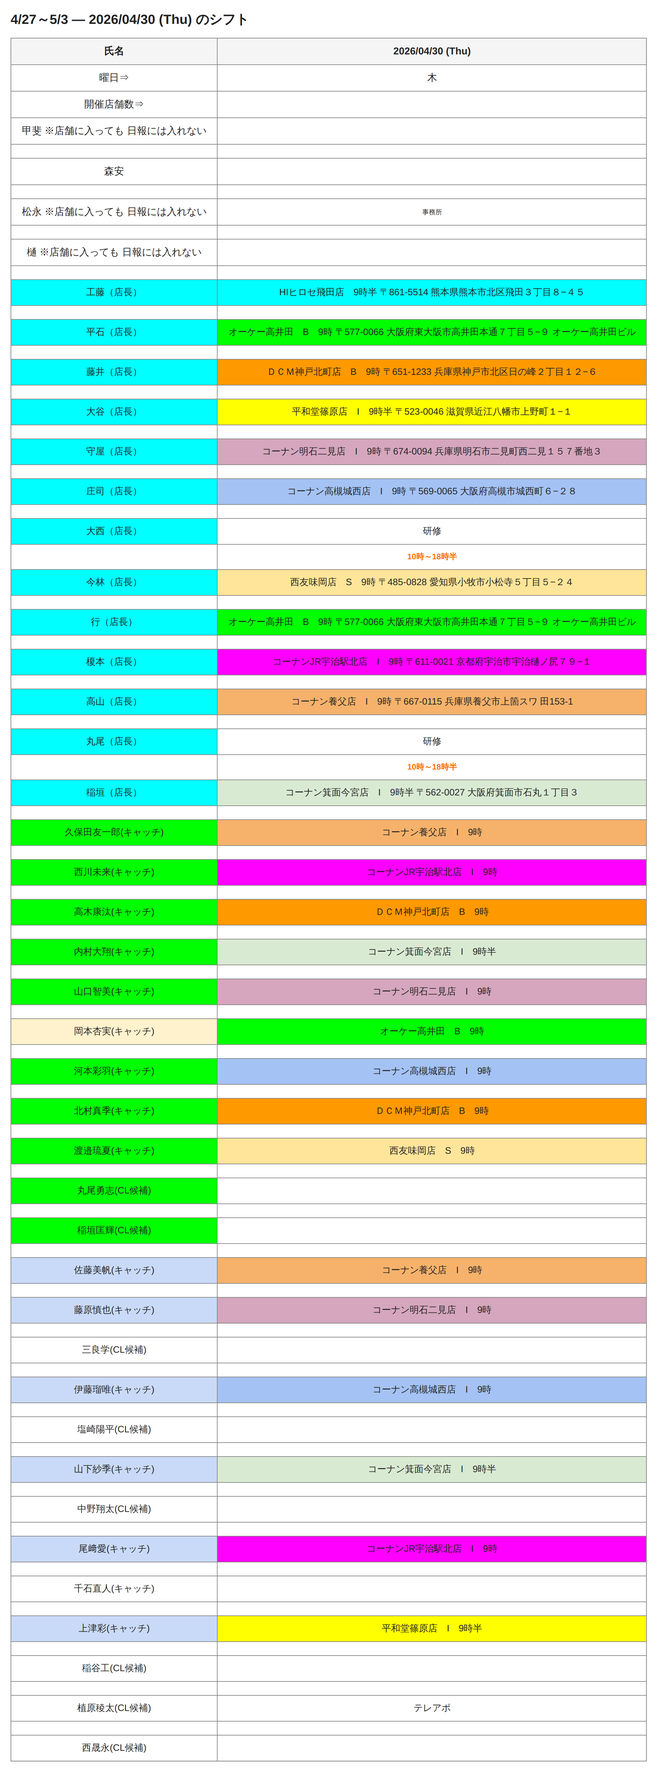
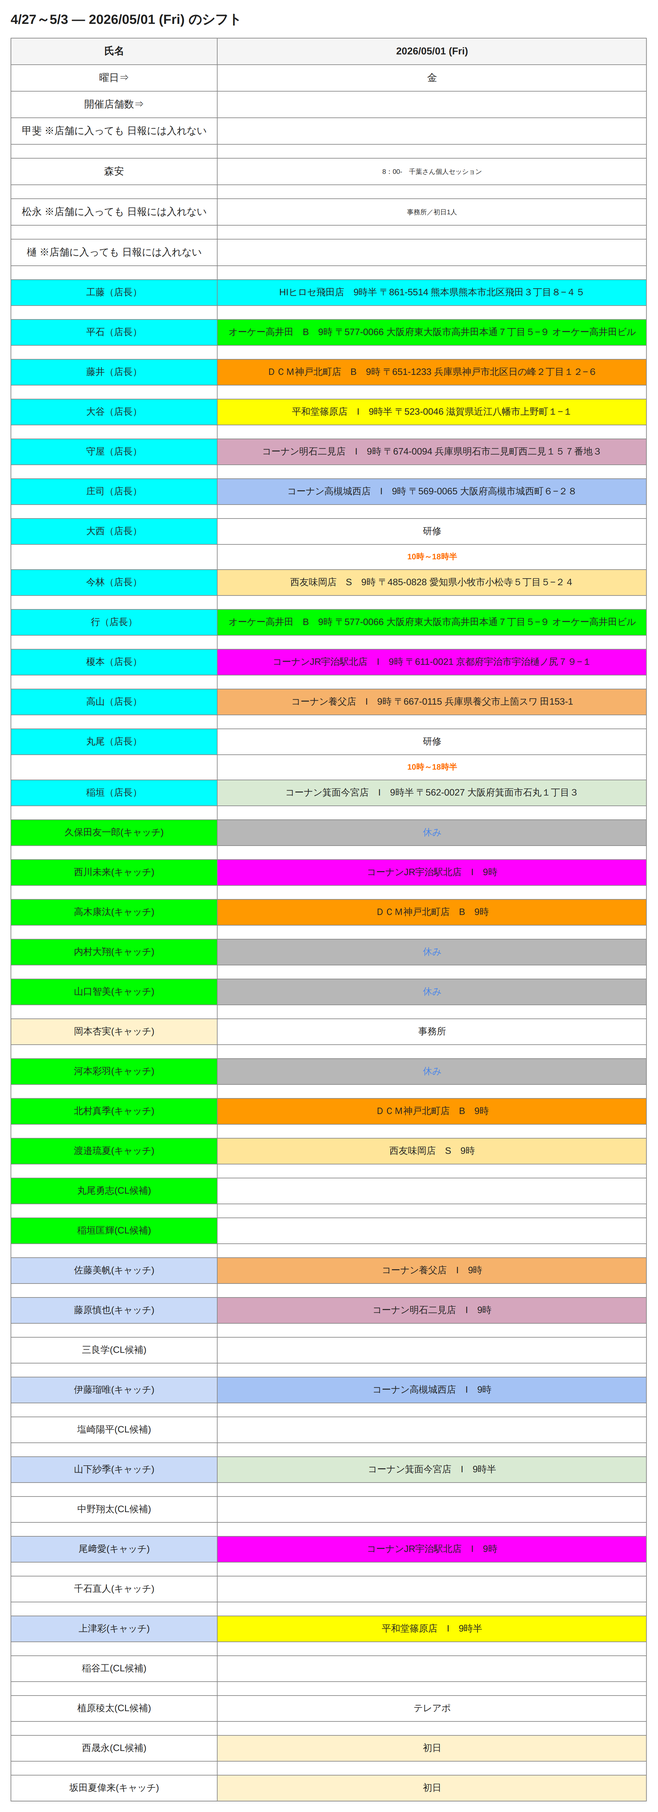
chore: update screenshots [skip ci]

diff --git a/screenshots/latest_kanto.html b/screenshots/latest_kanto.html
@@ -10,147 +10,40 @@ th,td{border:1px solid #888;padding:10px 16px;text-align:center;min-width:90px;}
 th{background:#f5f5f5;font-weight:bold;}
 </style></head><body>
 <div class='container'>
-<h2>4/27～5/3 — 2026/04/30 (Thu) のシフト</h2>
+<h2>2026年5月 — 2026/05/01 (Fri) のシフト</h2>
 <table>
-<tr><th>氏名</th><th>2026/04/30 (Thu)</th></tr>
-<tr><td style='background-color:rgb(255,255,255);font-size:15px'>曜日⇒</td><td style='background-color:rgb(255,255,255);font-size:15px'>木</td></tr>
-<tr><td style='background-color:rgb(255,255,255);font-size:15px'>開催店舗数⇒</td><td style='background-color:rgb(255,255,255);font-size:10px'></td></tr>
-<tr><td style='background-color:rgb(255,255,255);font-size:15px'>甲斐
-※店舗に入っても
-日報には入れない</td><td style='background-color:rgb(255,255,255);font-size:10px'></td></tr>
-<tr><td style='background-color:rgb(255,255,255);font-size:15px'></td><td style='background-color:rgb(255,255,255);font-size:10px'></td></tr>
-<tr><td style='background-color:rgb(255,255,255);font-size:14px'>照屋
-※店舗に入っても
-日報には入れない</td><td style='background-color:rgb(255,255,255);font-size:10px'></td></tr>
-<tr><td style='background-color:rgb(255,255,255);font-size:10px'></td><td style='background-color:rgb(255,255,255);font-size:10px'></td></tr>
-<tr><td style='background-color:rgb(255,255,255);font-size:16px'>鍛治
-※店舗に入っても
-日報には入れない</td><td style='background-color:rgb(255,255,255);font-size:10px'></td></tr>
-<tr><td style='background-color:rgb(255,255,255);font-size:10px'></td><td style='background-color:rgb(255,255,255);font-size:10px'></td></tr>
-<tr><td style='background-color:rgb(255,153,0);font-size:14px'>大塚（店長）</td><td style='background-color:rgb(255,153,0);font-size:14px'>オーケー東伏見　B　9時スタート
-〒202-0021 東京都西東京市東伏見５丁目１−２６</td></tr>
-<tr><td style='background-color:rgb(255,255,255);font-size:14px'></td><td style='background-color:rgb(255,255,255);color:rgb(255,0,0);font-size:14px'>CC石塚</td></tr>
-<tr><td style='background-color:rgb(255,0,255);font-size:14px'>西本（店長）</td><td style='background-color:rgb(255,0,255);font-size:15px'>オーケー松戸大橋店　B　9時スタート
-〒270-2224 千葉県松戸市大橋４２４−１</td></tr>
-<tr><td style='background-color:rgb(255,255,255);font-size:14px'></td><td style='background-color:rgb(255,255,255);color:rgb(255,0,0);font-size:14px'></td></tr>
-<tr><td style='background-color:rgb(255,0,255);font-size:14px'>阿部（店長）</td><td style='background-color:rgb(183,183,183);color:rgb(74,134,232);font-size:14px'>休み</td></tr>
-<tr><td style='background-color:rgb(255,255,255);font-size:14px'></td><td style='background-color:rgb(255,255,255);color:rgb(255,0,0);font-size:14px'></td></tr>
-<tr><td style='background-color:rgb(255,0,255);font-size:14px'>小嶋（店長）</td><td style='background-color:rgb(153,0,255);color:rgb(255,255,255);font-size:14px'>オーケー 大和鶴間店　B　９時スタート
-〒242-0004 神奈川県大和市鶴間２丁目１−１８</td></tr>
-<tr><td style='background-color:rgb(255,255,255);font-size:14px'></td><td style='background-color:rgb(255,255,255);color:rgb(255,0,0);font-size:14px'></td></tr>
-<tr><td style='background-color:rgb(255,0,255);font-size:14px'>楠美（店長） </td><td style='background-color:rgb(0,0,255);color:rgb(255,255,255);font-size:14px'>オーケー 四つ木店　B　9時スタート
-〒124-0011 東京都葛飾区四つ木３丁目１９−１</td></tr>
-<tr><td style='background-color:rgb(255,255,255);font-size:14px'> </td><td style='background-color:rgb(255,255,255);color:rgb(255,0,0);font-size:14px'></td></tr>
-<tr><td style='background-color:rgb(255,0,255);font-size:14px'>高井（店長） </td><td style='background-color:rgb(127,96,0);color:rgb(255,255,255);font-size:14px'>オーケー 三鷹上連雀店　Ｂ　9時スタート
-〒181-0012 東京都三鷹市上連雀８丁目２−３０</td></tr>
-<tr><td style='background-color:rgb(255,255,255);font-size:14px'></td><td style='background-color:rgb(255,255,255);color:rgb(255,0,0);font-size:14px'>CC栗原</td></tr>
-<tr><td style='background-color:rgb(255,0,255);font-size:14px'>岡村秀星（店長） </td><td style='background-color:rgb(182,215,168);font-size:14px'>オータニ御幸ヶ原店　Ｂ　9時半スタート
-〒321-0982 栃木県宇都宮市御幸ケ原町９１−４</td></tr>
-<tr><td style='background-color:rgb(255,255,255);color:rgb(255,0,0);font-weight:bold;font-size:14px'></td><td style='background-color:rgb(255,255,255);color:rgb(255,0,0);font-weight:bold;font-size:14px'></td></tr>
-<tr><td style='background-color:rgb(0,255,255);font-size:14px'>岡村（店長）</td><td style='background-color:rgb(0,255,255);font-size:14px'>オーケー 和光下新倉店 Ｂ　9時スタート
-〒351-0111 埼玉県和光市下新倉５丁目１３−５２&quot;</td></tr>
-<tr><td style='background-color:rgb(255,255,255);font-size:14px'></td><td style='background-color:rgb(255,255,255);color:rgb(255,0,0);font-size:14px'>同行</td></tr>
-<tr><td style='background-color:rgb(0,255,255);font-size:14px'>山田（店長）</td><td style='background-color:rgb(255,229,153);font-size:14px'>イオンタウン田無芝久保　S　９時スタート
-〒188-0014 東京都西東京市芝久保町１丁目１２−５</td></tr>
-<tr><td style='background-color:rgb(255,255,255);font-size:14px'></td><td style='background-color:rgb(255,255,255);color:rgb(255,0,0);font-size:14px'></td></tr>
-<tr><td style='background-color:rgb(0,255,255);font-size:14px'>荒川（店長） </td><td style='background-color:rgb(118,165,175);font-size:14px'>オーケー新座北野店　Ｂ　9時スタート
-〒352-0003 埼玉県新座市北野３丁目４−５</td></tr>
-<tr><td style='background-color:rgb(255,255,255);font-size:14px'></td><td style='background-color:rgb(255,255,255);color:rgb(255,0,0);font-size:14px'></td></tr>
-<tr><td style='background-color:rgb(0,255,255);font-size:14px'>吉田（店長） </td><td style='background-color:rgb(56,118,29);color:rgb(255,255,255);font-size:14px'>エスポット湯河原店　B　９時半スタート
-〒259-0312 神奈川県足柄下郡湯河原町吉浜1576ｰ47</td></tr>
-<tr><td style='background-color:rgb(255,255,255);font-size:14px'></td><td style='background-color:rgb(255,255,255);color:rgb(255,0,0);font-size:14px'></td></tr>
-<tr><td style='background-color:rgb(0,255,255);font-size:14px'>古川（店長）</td><td style='background-color:rgb(0,255,255);font-size:14px'>オーケー 和光下新倉店 Ｂ　9時スタート
-〒351-0111 埼玉県和光市下新倉５丁目１３−５２</td></tr>
-<tr><td style='background-color:rgb(255,255,255);font-size:14px'></td><td style='background-color:rgb(255,255,255);font-weight:bold;font-size:14px'></td></tr>
-<tr><td style='background-color:rgb(180,167,214);font-size:14px'>高塚（店長）</td><td style='background-color:rgb(180,167,214);font-size:14px'>ウオエイ 金巻店　S　１０時スタート
-〒950-1112 新潟県新潟市西区金巻１１５５</td></tr>
-<tr><td style='background-color:rgb(255,255,255);font-size:14px'></td><td style='background-color:rgb(255,255,255);color:rgb(255,0,0);font-size:14px'></td></tr>
-<tr><td style='background-color:rgb(164,194,244);font-size:14px'>横瀬康汰(CL候補)フェーズ4</td><td style='background-color:rgb(255,242,204);color:rgb(255,0,0);font-weight:bold;font-size:14px'>水道橋研修</td></tr>
-<tr><td style='background-color:rgb(255,255,255);font-size:14px'></td><td style='background-color:rgb(255,255,255);font-weight:bold;font-size:14px'>11時リテラシー研修</td></tr>
-<tr><td style='background-color:rgb(164,194,244);font-size:14px'>工藤雅也(CL候補)フェーズ4</td><td style='background-color:rgb(255,242,204);color:rgb(255,0,0);font-weight:bold;font-size:14px'>水道橋研修</td></tr>
-<tr><td style='background-color:rgb(255,255,255);font-size:14px'></td><td style='background-color:rgb(255,255,255);font-weight:bold;font-size:14px'>11時リテラシー研修</td></tr>
-<tr><td style='background-color:rgb(0,255,0);font-size:14px'>関崎太央(キャッチ)リーダー</td><td style='background-color:rgb(255,255,0);font-size:14px'>オータニ高根沢店　Ｂ　9時半スタート
-〒329-1232 栃木県塩谷郡高根沢町光陽台６丁目５−３</td></tr>
-<tr><td style='background-color:rgb(255,255,255);font-size:14px'></td><td style='background-color:rgb(255,255,255);color:rgb(255,0,0);font-weight:bold;font-size:14px'></td></tr>
-<tr><td style='background-color:rgb(0,255,0);font-size:14px'>池邉杏梨(キャッチ)リーダー</td><td style='background-color:rgb(183,183,183);color:rgb(74,134,232);font-size:14px'>休み</td></tr>
-<tr><td style='background-color:rgb(255,255,255);font-size:14px'></td><td style='background-color:rgb(255,255,255);color:rgb(255,0,0);font-weight:bold;font-size:14px'></td></tr>
-<tr><td style='background-color:rgb(0,255,0);font-size:14px'>中村響子(キャッチ)リーダー</td><td style='background-color:rgb(255,0,255);font-size:15px'>オーケー松戸大橋店9時スタート(西本CL)
-〒270-2224 千葉県松戸市大橋４２４−１</td></tr>
-<tr><td style='background-color:rgb(255,255,255);font-size:14px'></td><td style='background-color:rgb(255,255,255);color:rgb(255,0,0);font-weight:bold;font-size:14px'></td></tr>
-<tr><td style='background-color:rgb(0,255,0);font-size:14px'>佐川明佳(キャッチ)リーダー</td><td style='background-color:rgb(255,255,255);font-size:14px'>HIヒロセ飛田店　9時半スタート</td></tr>
-<tr><td style='background-color:rgb(255,255,255);font-size:14px'></td><td style='background-color:rgb(255,255,255);color:rgb(255,0,0);font-weight:bold;font-size:14px'>工藤店舗ＣＣ今井</td></tr>
-<tr><td style='background-color:rgb(0,255,0);font-size:14px'>戸﨑龍(キャッチ)リーダー</td><td style='background-color:rgb(183,183,183);color:rgb(74,134,232);font-size:14px'>休み</td></tr>
-<tr><td style='background-color:rgb(255,255,255);font-size:14px'></td><td style='background-color:rgb(255,255,255);color:rgb(255,0,0);font-weight:bold;font-size:14px'>振替休日4/29に出勤</td></tr>
-<tr><td style='background-color:rgb(183,225,205);font-size:14px'>加藤美雪(キャッチ)フェーズ3</td><td style='background-color:rgb(255,153,0);font-size:14px'>オーケー東伏見9時スタート(大塚ＣＬ)
-〒202-0021 東京都西東京市東伏見５丁目１−２６</td></tr>
-<tr><td style='background-color:rgb(255,255,255);font-size:14px'></td><td style='background-color:rgb(255,255,255);color:rgb(255,0,0);font-weight:bold;font-size:14px'></td></tr>
-<tr><td style='background-color:rgb(183,225,205);font-size:14px'>前川孝夫(キャッチ)フェーズ3</td><td style='background-color:rgb(255,255,0);font-size:14px'>オータニ高根沢店9時半スタート(関崎ＣＬ)
-〒329-1232 栃木県塩谷郡高根沢町光陽台６丁目５−３</td></tr>
-<tr><td style='background-color:rgb(255,255,255);font-size:14px'></td><td style='background-color:rgb(255,255,255);color:rgb(255,0,0);font-weight:bold;font-size:14px'>11時リテラシー研修</td></tr>
-<tr><td style='background-color:rgb(183,225,205);font-size:14px'>佐藤優斗(キャッチ)フェーズ3</td><td style='background-color:rgb(180,167,214);font-size:14px'>ウオエイ 金巻店１０時スタート(高塚ＣＬ)
-〒950-1112 新潟県新潟市西区金巻１１５５</td></tr>
-<tr><td style='background-color:rgb(255,255,255);font-size:14px'></td><td style='background-color:rgb(255,255,255);color:rgb(255,0,0);font-size:14px'></td></tr>
-<tr><td style='background-color:rgb(183,225,205);font-size:14px'>薄井和明(キャッチ)フェーズ3</td><td style='background-color:rgb(255,255,0);font-size:14px'>オータニ高根沢店9時半スタート(関崎ＣＬ)
-〒329-1232 栃木県塩谷郡高根沢町光陽台６丁目５−３</td></tr>
-<tr><td style='background-color:rgb(255,255,255);font-size:14px'></td><td style='background-color:rgb(255,255,255);color:rgb(255,0,0);font-size:14px'></td></tr>
-<tr><td style='background-color:rgb(183,225,205);font-size:14px'>大木亜希乃(キャッチ)フェーズ3</td><td style='background-color:rgb(0,255,255);font-size:14px'>オーケー 和光下新倉店 9時スタート(古川ＣＬ)
-〒351-0111 埼玉県和光市下新倉５丁目１３−５２</td></tr>
-<tr><td style='background-color:rgb(255,255,255);font-size:14px'></td><td style='background-color:rgb(255,255,255);font-weight:bold;font-size:14px'>11時リテラシー研修</td></tr>
-<tr><td style='background-color:rgb(183,225,205);font-size:14px'>川上寛太(キャッチ)フェーズ3</td><td style='background-color:rgb(182,215,168);font-size:14px'>オータニ御幸ヶ原店9時半スタート(岡村秀星ＣＬ)
-〒321-0982 栃木県宇都宮市御幸ケ原町９１−４</td></tr>
-<tr><td style='background-color:rgb(255,255,255);font-size:14px'></td><td style='background-color:rgb(255,255,255);color:rgb(255,0,0);font-weight:bold;font-size:14px'></td></tr>
-<tr><td style='background-color:rgb(183,225,205);font-size:14px'>高橋疾風(キャッチ)フェーズ3</td><td style='background-color:rgb(153,0,255);color:rgb(255,255,255);font-size:14px'>オーケー 大和鶴間店９時スタート(小嶋ＣＬ)
-〒242-0004 神奈川県大和市鶴間２丁目１−１８</td></tr>
-<tr><td style='background-color:rgb(255,255,255);font-size:14px'></td><td style='background-color:rgb(255,255,255);font-weight:bold;font-size:14px'>11時リテラシー研修</td></tr>
-<tr><td style='background-color:rgb(183,225,205);font-size:14px'>鈴木彰悟(キャッチ)フェーズ3</td><td style='background-color:rgb(118,165,175);font-size:14px'>オーケー新座北野店9時スタート(荒川ＣＬ)
-〒352-0003 埼玉県新座市北野３丁目４−５</td></tr>
-<tr><td style='background-color:rgb(255,255,255);font-size:14px'></td><td style='background-color:rgb(255,255,255);font-weight:bold;font-size:14px'>11時リテラシー研修</td></tr>
-<tr><td style='background-color:rgb(183,225,205);font-size:14px'>宮下裕大(キャッチ)フェーズ3</td><td style='background-color:rgb(183,183,183);color:rgb(74,134,232);font-size:14px'>休み</td></tr>
-<tr><td style='background-color:rgb(255,255,255);font-size:14px'></td><td style='background-color:rgb(255,255,255);color:rgb(255,0,0);font-weight:bold;font-size:14px'></td></tr>
-<tr><td style='background-color:rgb(183,225,205);font-size:14px'>本間駿介(キャッチ)フェーズ3</td><td style='background-color:rgb(183,183,183);color:rgb(74,134,232);font-size:14px'>休み</td></tr>
-<tr><td style='background-color:rgb(255,255,255);font-size:14px'></td><td style='background-color:rgb(255,255,255);color:rgb(255,0,0);font-weight:bold;font-size:14px'>振替休日(4/29分)</td></tr>
-<tr><td style='background-color:rgb(183,225,205);font-size:14px'>矢田部萌(キャッチ)フェーズ3</td><td style='background-color:rgb(180,167,214);font-size:14px'>ウオエイ 金巻店１０時スタート(高塚ＣＬ)
-〒950-1112 新潟県新潟市西区金巻１１５５</td></tr>
-<tr><td style='background-color:rgb(255,255,255);font-size:14px'></td><td style='background-color:rgb(255,255,255);color:rgb(255,0,0);font-weight:bold;font-size:14px'></td></tr>
-<tr><td style='background-color:rgb(183,225,205);font-size:14px'>伊藤弘晃(キャッチ)フェーズ3</td><td style='background-color:rgb(183,183,183);color:rgb(74,134,232);font-size:14px'>休み</td></tr>
-<tr><td style='background-color:rgb(255,255,255);font-size:14px'></td><td style='background-color:rgb(255,255,255);color:rgb(255,0,0);font-weight:bold;font-size:14px'>有給</td></tr>
-<tr><td style='background-color:rgb(183,225,205);font-size:14px'>室岡峻平(キャッチ)フェーズ3</td><td style='background-color:rgb(255,229,153);font-size:14px'>イオンタウン田無芝久保９時スタート(山田ＣＬ)
-〒188-0014 東京都西東京市芝久保町１丁目１２−５</td></tr>
-<tr><td style='background-color:rgb(255,255,255);font-size:14px'></td><td style='background-color:rgb(255,255,255);font-weight:bold;font-size:14px'></td></tr>
-<tr><td style='background-color:rgb(183,225,205);font-size:14px'>藤井祥平(キャッチ)フェーズ3</td><td style='background-color:rgb(56,118,29);color:rgb(255,255,255);font-size:14px'>エスポット湯河原店９時半スタート(吉田ＣＬ)
-〒259-0312 神奈川県足柄下郡湯河原町吉浜1576ｰ47</td></tr>
-<tr><td style='background-color:rgb(255,255,255);font-size:14px'></td><td style='background-color:rgb(255,255,255);color:rgb(255,0,0);font-size:14px'></td></tr>
-<tr><td style='background-color:rgb(183,225,205);font-size:14px'>中川侑馬(キャッチ)フェーズ3</td><td style='background-color:rgb(118,165,175);font-size:14px'>オーケー新座北野店9時スタート(荒川ＣＬ)
-〒352-0003 埼玉県新座市北野３丁目４−５</td></tr>
-<tr><td style='background-color:rgb(255,255,255);font-size:14px'></td><td style='background-color:rgb(255,255,255);color:rgb(255,0,0);font-weight:bold;font-size:14px'></td></tr>
-<tr><td style='background-color:rgb(183,225,205);font-size:14px'>溝井唯香(キャッチ)フェーズ3</td><td style='background-color:rgb(0,0,255);color:rgb(255,255,255);font-size:14px'>オーケー 四つ木店9時スタート(楠美ＣＬ)
-〒124-0011 東京都葛飾区四つ木３丁目１９−１</td></tr>
-<tr><td style='background-color:rgb(255,255,255);font-size:14px'></td><td style='background-color:rgb(255,255,255);font-weight:bold;font-size:14px'>リテラシー研修</td></tr>
-<tr><td style='background-color:rgb(183,225,205);font-size:14px'>門脇愛(キャッチ)フェーズ3</td><td style='background-color:rgb(183,183,183);color:rgb(74,134,232);font-size:14px'>休み</td></tr>
-<tr><td style='background-color:rgb(255,255,255);font-size:14px'></td><td style='background-color:rgb(255,255,255);font-weight:bold;font-size:14px'>未定</td></tr>
-<tr><td style='background-color:rgb(255,242,204);font-size:14px'>髙田啓祐(キャッチ)フェーズ2</td><td style='background-color:rgb(153,0,255);color:rgb(255,255,255);font-size:14px'>オーケー 大和鶴間店９時スタート(小嶋ＣＬ)
-〒242-0004 神奈川県大和市鶴間２丁目１−１８</td></tr>
-<tr><td style='background-color:rgb(255,255,255);font-size:14px'></td><td style='background-color:rgb(255,255,255);font-weight:bold;font-size:14px'></td></tr>
-<tr><td style='background-color:rgb(255,242,204);font-size:14px'>山本拓真(キャッチ)フェーズ2</td><td style='background-color:rgb(182,215,168);font-size:14px'>オータニ御幸ヶ原店9時半スタート(岡村秀星ＣＬ)
-〒321-0982 栃木県宇都宮市御幸ケ原町９１−４</td></tr>
-<tr><td style='background-color:rgb(255,255,255);font-size:14px'></td><td style='background-color:rgb(255,255,255);font-weight:bold;font-size:14px'></td></tr>
-<tr><td style='background-color:rgb(255,242,204);font-size:14px'>小西輝(キャッチ)フェーズ2</td><td style='background-color:rgb(0,0,255);color:rgb(255,255,255);font-size:14px'>オーケー 四つ木店9時スタート(楠美ＣＬ)
-〒124-0011 東京都葛飾区四つ木３丁目１９−１</td></tr>
-<tr><td style='background-color:rgb(255,255,255);font-size:14px'></td><td style='background-color:rgb(255,255,255);font-weight:bold;font-size:14px'></td></tr>
-<tr><td style='background-color:rgb(234,153,153);font-size:14px'>田邊怜司(キャッチ)フェーズ1</td><td style='background-color:rgb(255,0,255);font-size:15px'>オーケー松戸大橋店9時スタート(西本CL)
-〒270-2224 千葉県松戸市大橋４２４−１</td></tr>
-<tr><td style='background-color:rgb(255,255,255);font-size:14px'></td><td style='background-color:rgb(255,255,255);color:rgb(255,0,0);font-weight:bold;font-size:14px'></td></tr>
-<tr><td style='background-color:rgb(234,153,153);font-size:14px'>千田華菜子(キャッチ)フェーズ1</td><td style='background-color:rgb(127,96,0);color:rgb(255,255,255);font-size:14px'>オーケー 三鷹上連雀店9時スタート(高井ＣＬ)
-〒181-0012 東京都三鷹市上連雀８丁目２−３０</td></tr>
-<tr><td style='background-color:rgb(255,255,255);font-size:14px'></td><td style='background-color:rgb(255,255,255);font-weight:bold;font-size:14px'></td></tr>
-<tr><td style='background-color:rgb(234,153,153);font-size:14px'>小幡直樹(キャッチ)フェーズ1</td><td style='background-color:rgb(255,229,153);font-size:14px'>イオンタウン田無芝久保９時スタート(山田ＣＬ)
-〒188-0014 東京都西東京市芝久保町１丁目１２−５</td></tr>
-<tr><td style='background-color:rgb(255,255,255);font-size:14px'></td><td style='background-color:rgb(255,255,255);font-weight:bold;font-size:14px'></td></tr>
-<tr><td style='background-color:rgb(234,153,153);font-size:14px'>太田天(CL候補)フェーズ1</td><td style='background-color:rgb(56,118,29);color:rgb(255,255,255);font-size:14px'>エスポット湯河原店９時半スタート(吉田ＣＬ)
-〒259-0312 神奈川県足柄下郡湯河原町吉浜1576ｰ47</td></tr>
-<tr><td style='background-color:rgb(255,255,255);font-weight:bold;font-size:14px'></td><td style='background-color:rgb(255,255,255);font-weight:bold;font-size:14px'>11時リテラシー研修</td></tr>
-<tr><td style='background-color:rgb(234,153,153);font-size:14px'>米須清晃(CL候補)フェーズ1</td><td style='background-color:rgb(255,229,153);font-size:14px'>イオンタウン田無芝久保９時スタート(山田ＣＬ)
-〒188-0014 東京都西東京市芝久保町１丁目１２−５</td></tr>
-<tr><td style='background-color:rgb(255,255,255);font-weight:bold;font-size:14px'></td><td style='background-color:rgb(255,255,255);font-weight:bold;font-size:14px'>リテラシー研修</td></tr>
-<tr><td style='background-color:rgb(255,255,255);font-weight:bold;font-size:14px'></td><td style='background-color:rgb(255,255,255);font-weight:bold;font-size:14px'></td></tr>
+<tr><th>氏名</th><th>2026/05/01 (Fri)</th></tr>
+<tr><td style='background-color:rgb(255,255,255);font-size:10px'>関崎太央</td><td style='background-color:rgb(255,255,255);font-size:10px'></td></tr>
+<tr><td style='background-color:rgb(255,255,255);font-size:10px'>オータニ高根沢店　Ｂ　9時半スタート
+〒329-1232 栃木県塩谷郡高根沢町光陽台６丁目５−３</td><td style='background-color:rgb(255,255,255);font-size:10px'>2026/05/01</td></tr>
+<tr><td style='background-color:rgb(255,255,255);font-size:10px'>.休み</td><td style='background-color:rgb(255,255,255);font-size:10px'>2026/05/02</td></tr>
+<tr><td style='background-color:rgb(255,255,255);font-size:10px'>.休み</td><td style='background-color:rgb(255,255,255);font-size:10px'>2026/05/03</td></tr>
+<tr><td style='background-color:rgb(255,255,255);font-size:10px'>Aコープハピネス店</td><td style='background-color:rgb(255,255,255);font-size:10px'>2026/05/04</td></tr>
+<tr><td style='background-color:rgb(255,255,255);font-size:10px'>出る</td><td style='background-color:rgb(255,255,255);font-size:10px'>2026/05/05</td></tr>
+<tr><td style='background-color:rgb(255,255,255);font-size:10px'>出る</td><td style='background-color:rgb(255,255,255);font-size:10px'>2026/05/06</td></tr>
+<tr><td style='background-color:rgb(255,255,255);font-size:10px'>出る</td><td style='background-color:rgb(255,255,255);font-size:10px'>2026/05/07</td></tr>
+<tr><td style='background-color:rgb(255,255,255);font-size:10px'>出る</td><td style='background-color:rgb(255,255,255);font-size:10px'>2026/05/08</td></tr>
+<tr><td style='background-color:rgb(255,255,255);font-size:10px'>休み</td><td style='background-color:rgb(255,255,255);font-size:10px'>2026/05/09</td></tr>
+<tr><td style='background-color:rgb(255,255,255);font-size:10px'>休み</td><td style='background-color:rgb(255,255,255);font-size:10px'>2026/05/10</td></tr>
+<tr><td style='background-color:rgb(255,255,255);font-size:10px'></td><td style='background-color:rgb(255,255,255);font-size:10px'>2026/05/11</td></tr>
+<tr><td style='background-color:rgb(255,255,255);font-size:10px'></td><td style='background-color:rgb(255,255,255);font-size:10px'>2026/05/12</td></tr>
+<tr><td style='background-color:rgb(255,255,255);font-size:10px'></td><td style='background-color:rgb(255,255,255);font-size:10px'>2026/05/13</td></tr>
+<tr><td style='background-color:rgb(255,255,255);font-size:10px'></td><td style='background-color:rgb(255,255,255);font-size:10px'>2026/05/14</td></tr>
+<tr><td style='background-color:rgb(255,255,255);font-size:10px'></td><td style='background-color:rgb(255,255,255);font-size:10px'>2026/05/15</td></tr>
+<tr><td style='background-color:rgb(255,255,255);font-size:10px'></td><td style='background-color:rgb(255,255,255);font-size:10px'>2026/05/16</td></tr>
+<tr><td style='background-color:rgb(255,255,255);font-size:10px'>休み</td><td style='background-color:rgb(255,255,255);font-size:10px'>2026/05/17</td></tr>
+<tr><td style='background-color:rgb(255,255,255);font-size:10px'></td><td style='background-color:rgb(255,255,255);font-size:10px'>2026/05/18</td></tr>
+<tr><td style='background-color:rgb(255,255,255);font-size:10px'></td><td style='background-color:rgb(255,255,255);font-size:10px'>2026/05/19</td></tr>
+<tr><td style='background-color:rgb(255,255,255);font-size:10px'></td><td style='background-color:rgb(255,255,255);font-size:10px'>2026/05/20</td></tr>
+<tr><td style='background-color:rgb(255,255,255);font-size:10px'></td><td style='background-color:rgb(255,255,255);font-size:10px'>2026/05/21</td></tr>
+<tr><td style='background-color:rgb(255,255,255);font-size:10px'></td><td style='background-color:rgb(255,255,255);font-size:10px'>2026/05/22</td></tr>
+<tr><td style='background-color:rgb(255,255,255);font-size:10px'></td><td style='background-color:rgb(255,255,255);font-size:10px'>2026/05/23</td></tr>
+<tr><td style='background-color:rgb(255,255,255);font-size:10px'></td><td style='background-color:rgb(255,255,255);font-size:10px'>2026/05/24</td></tr>
+<tr><td style='background-color:rgb(255,255,255);font-size:10px'></td><td style='background-color:rgb(255,255,255);font-size:10px'>2026/05/25</td></tr>
+<tr><td style='background-color:rgb(255,255,255);font-size:10px'></td><td style='background-color:rgb(255,255,255);font-size:10px'>2026/05/26</td></tr>
+<tr><td style='background-color:rgb(255,255,255);font-size:10px'></td><td style='background-color:rgb(255,255,255);font-size:10px'>2026/05/27</td></tr>
+<tr><td style='background-color:rgb(255,255,255);font-size:10px'></td><td style='background-color:rgb(255,255,255);font-size:10px'>2026/05/28</td></tr>
+<tr><td style='background-color:rgb(255,255,255);font-size:10px'></td><td style='background-color:rgb(255,255,255);font-size:10px'>2026/05/29</td></tr>
+<tr><td style='background-color:rgb(255,255,255);font-size:10px'></td><td style='background-color:rgb(255,255,255);font-size:10px'>2026/05/30</td></tr>
+<tr><td style='background-color:rgb(255,255,255);font-size:10px'></td><td style='background-color:rgb(255,255,255);font-size:10px'>2026/05/31</td></tr>
 </table></div></body></html>

diff --git a/screenshots/latest_kansai.html b/screenshots/latest_kansai.html
@@ -10,10 +10,10 @@ th,td{border:1px solid #888;padding:10px 16px;text-align:center;min-width:90px;}
 th{background:#f5f5f5;font-weight:bold;}
 </style></head><body>
 <div class='container'>
-<h2>4/27～5/3 — 2026/04/30 (Thu) のシフト</h2>
+<h2>4/27～5/3 — 2026/05/01 (Fri) のシフト</h2>
 <table>
-<tr><th>氏名</th><th>2026/04/30 (Thu)</th></tr>
-<tr><td style='background-color:rgb(255,255,255);font-size:15px'>曜日⇒</td><td style='background-color:rgb(255,255,255);font-size:15px'>木</td></tr>
+<tr><th>氏名</th><th>2026/05/01 (Fri)</th></tr>
+<tr><td style='background-color:rgb(255,255,255);font-size:15px'>曜日⇒</td><td style='background-color:rgb(255,255,255);font-size:15px'>金</td></tr>
 <tr><td style='background-color:rgb(255,255,255);font-size:15px'>開催店舗数⇒</td><td style='background-color:rgb(255,255,255);font-size:10px'></td></tr>
 <tr><td style='background-color:rgb(255,255,255);font-size:15px'>甲斐
 ※店舗に入っても
@@ -21,11 +21,11 @@ th{background:#f5f5f5;font-weight:bold;}
 <tr><td style='background-color:rgb(255,255,255);font-size:10px'></td><td style='background-color:rgb(255,255,255);font-size:10px'></td></tr>
 <tr><td style='background-color:rgb(255,255,255);font-size:15px'>
 森安
-</td><td style='background-color:rgb(255,255,255);font-size:10px'></td></tr>
+</td><td style='background-color:rgb(255,255,255);font-size:10px'>8：00-　千葉さん個人セッション</td></tr>
 <tr><td style='background-color:rgb(255,255,255);font-size:10px'></td><td style='background-color:rgb(255,255,255);font-size:10px'></td></tr>
 <tr><td style='background-color:rgb(255,255,255);font-size:15px'>松永
 ※店舗に入っても
-日報には入れない</td><td style='background-color:rgb(255,255,255);font-size:10px'>事務所</td></tr>
+日報には入れない</td><td style='background-color:rgb(255,255,255);font-size:10px'>事務所／初日1人</td></tr>
 <tr><td style='background-color:rgb(255,255,255);font-size:10px'></td><td style='background-color:rgb(255,255,255);font-size:10px'></td></tr>
 <tr><td style='background-color:rgb(255,255,255);font-size:15px'>樋
 ※店舗に入っても
@@ -68,19 +68,19 @@ th{background:#f5f5f5;font-weight:bold;}
 <tr><td style='background-color:rgb(0,255,255);font-size:14px'>稲垣（店長）</td><td style='background-color:rgb(217,234,211);font-size:14px'>コーナン箕面今宮店　I　9時半
 〒562-0027 大阪府箕面市石丸１丁目３</td></tr>
 <tr><td style='background-color:rgb(255,255,255);font-size:14px'></td><td style='background-color:rgb(255,255,255);font-size:14px'></td></tr>
-<tr><td style='background-color:rgb(0,255,0);font-size:14px'>久保田友一郎(キャッチ)</td><td style='background-color:rgb(246,178,107);font-size:14px'>コーナン養父店　I　9時</td></tr>
+<tr><td style='background-color:rgb(0,255,0);font-size:14px'>久保田友一郎(キャッチ)</td><td style='background-color:rgb(183,183,183);color:rgb(74,134,232);font-size:14px'>休み</td></tr>
 <tr><td style='background-color:rgb(255,255,255);font-size:14px'></td><td style='background-color:rgb(255,255,255);font-size:14px'></td></tr>
 <tr><td style='background-color:rgb(0,255,0);font-size:14px'>西川未来(キャッチ)</td><td style='background-color:rgb(255,0,255);font-size:14px'>コーナンJR宇治駅北店　I　9時</td></tr>
 <tr><td style='background-color:rgb(255,255,255);font-size:14px'></td><td style='background-color:rgb(255,255,255);font-size:14px'></td></tr>
 <tr><td style='background-color:rgb(0,255,0);font-size:14px'>高木康汰(キャッチ)</td><td style='background-color:rgb(255,153,0);font-size:14px'>ＤＣＭ神戸北町店　B　9時</td></tr>
 <tr><td style='background-color:rgb(255,255,255);font-size:14px'></td><td style='background-color:rgb(255,255,255);font-size:14px'></td></tr>
-<tr><td style='background-color:rgb(0,255,0);font-size:14px'>内村大翔(キャッチ)</td><td style='background-color:rgb(217,234,211);font-size:14px'>コーナン箕面今宮店　I　9時半</td></tr>
+<tr><td style='background-color:rgb(0,255,0);font-size:14px'>内村大翔(キャッチ)</td><td style='background-color:rgb(183,183,183);color:rgb(74,134,232);font-size:14px'>休み</td></tr>
 <tr><td style='background-color:rgb(255,255,255);font-size:14px'></td><td style='background-color:rgb(255,255,255);font-size:14px'></td></tr>
-<tr><td style='background-color:rgb(0,255,0);font-size:14px'>山口智美(キャッチ)</td><td style='background-color:rgb(213,166,189);font-size:14px'>コーナン明石二見店　I　9時</td></tr>
+<tr><td style='background-color:rgb(0,255,0);font-size:14px'>山口智美(キャッチ)</td><td style='background-color:rgb(183,183,183);color:rgb(74,134,232);font-size:14px'>休み</td></tr>
 <tr><td style='background-color:rgb(255,255,255);font-size:14px'></td><td style='background-color:rgb(255,255,255);font-size:14px'></td></tr>
-<tr><td style='background-color:rgb(255,242,204);font-size:14px'>岡本杏実(キャッチ)</td><td style='background-color:rgb(0,255,0);font-size:14px'>オーケー高井田　B　9時</td></tr>
+<tr><td style='background-color:rgb(255,242,204);font-size:14px'>岡本杏実(キャッチ)</td><td style='background-color:rgb(255,255,255);font-size:14px'>事務所</td></tr>
 <tr><td style='background-color:rgb(255,255,255);font-size:12px'></td><td style='background-color:rgb(255,255,255);font-size:10px'></td></tr>
-<tr><td style='background-color:rgb(0,255,0);font-size:14px'>河本彩羽(キャッチ)</td><td style='background-color:rgb(164,194,244);font-size:14px'>コーナン高槻城西店　I　9時</td></tr>
+<tr><td style='background-color:rgb(0,255,0);font-size:14px'>河本彩羽(キャッチ)</td><td style='background-color:rgb(183,183,183);color:rgb(74,134,232);font-size:14px'>休み</td></tr>
 <tr><td style='background-color:rgb(255,255,255);font-size:14px'></td><td style='background-color:rgb(255,255,255);font-size:10px'></td></tr>
 <tr><td style='background-color:rgb(0,255,0);font-size:14px'>北村真季(キャッチ)</td><td style='background-color:rgb(255,153,0);font-size:14px'>ＤＣＭ神戸北町店　B　9時</td></tr>
 <tr><td style='background-color:rgb(255,255,255);font-size:14px'></td><td style='background-color:rgb(255,255,255);font-size:10px'></td></tr>
@@ -114,5 +114,7 @@ th{background:#f5f5f5;font-weight:bold;}
 <tr><td style='background-color:rgb(255,255,255);font-size:14px'></td><td style='background-color:rgb(255,255,255);font-size:14px'></td></tr>
 <tr><td style='background-color:rgb(255,255,255);font-size:14px'>植原稜太(CL候補)</td><td style='background-color:rgb(255,255,255);font-size:14px'>テレアポ</td></tr>
 <tr><td style='background-color:rgb(255,255,255);font-size:14px'></td><td style='background-color:rgb(255,255,255);font-size:14px'></td></tr>
-<tr><td style='background-color:rgb(255,255,255);font-size:14px'>西晟永(CL候補)</td><td style='background-color:rgb(255,255,255);font-size:14px'></td></tr>
+<tr><td style='background-color:rgb(255,255,255);font-size:14px'>西晟永(CL候補)</td><td style='background-color:rgb(255,242,204);font-size:14px'>初日</td></tr>
+<tr><td style='background-color:rgb(255,255,255);font-size:14px'></td><td style='background-color:rgb(255,255,255);font-size:14px'></td></tr>
+<tr><td style='background-color:rgb(255,255,255);font-size:14px'>坂田夏偉来(キャッチ)</td><td style='background-color:rgb(255,242,204);font-size:14px'>初日</td></tr>
 </table></div></body></html>

diff --git a/screenshots/latest_kyushu.html b/screenshots/latest_kyushu.html
@@ -10,25 +10,25 @@ th,td{border:1px solid #888;padding:10px 16px;text-align:center;min-width:90px;}
 th{background:#f5f5f5;font-weight:bold;}
 </style></head><body>
 <div class='container'>
-<h2>4/27～5/1 — 2026/04/30 (Thu) のシフト</h2>
+<h2>5/25～5/31 — 2026/05/01 (Fri) のシフト</h2>
 <table>
-<tr><th>氏名</th><th>2026/04/30 (Thu)</th></tr>
-<tr><td style='background-color:rgb(255,255,255);font-size:15px'>曜日⇒</td><td style='background-color:rgb(255,255,255);font-size:15px'>木</td></tr>
+<tr><th>氏名</th><th>2026/05/01 (Fri)</th></tr>
+<tr><td style='background-color:rgb(255,255,255);font-size:15px'>曜日⇒</td><td style='background-color:rgb(255,255,255);font-size:15px'>金</td></tr>
 <tr><td style='background-color:rgb(255,255,255);font-size:15px'>開催店舗数⇒</td><td style='background-color:rgb(255,255,255);font-size:10px'></td></tr>
 <tr><td style='background-color:rgb(255,255,255);font-size:15px'>甲斐
 ※店舗に入っても
 日報には入れない</td><td style='background-color:rgb(255,255,255);font-size:10px'></td></tr>
 <tr><td style='background-color:rgb(255,255,255);font-size:10px'></td><td style='background-color:rgb(255,255,255);font-size:10px'></td></tr>
-<tr><td style='background-color:rgb(0,255,255);font-size:14px'>工藤（店長）</td><td style='background-color:rgb(0,255,255);font-size:14px'>HIヒロセ飛田店　9時半スタート
-〒861-5514 熊本県熊本市北区飛田３丁目８−４５</td></tr>
+<tr><td style='background-color:rgb(0,255,255);font-size:14px'>工藤（店長）</td><td style='background-color:rgb(0,255,255);font-size:14px'>HIヒロセ 別府店　9時スタート
+〒874-0924 大分県別府市餅ケ浜町６−２３</td></tr>
 <tr><td style='background-color:rgb(255,255,255);font-size:10px'></td><td style='background-color:rgb(255,255,255);font-size:10px'></td></tr>
 <tr><td style='background-color:rgb(0,255,255);font-size:14px'>庄司（店長）</td><td style='background-color:rgb(164,194,244);font-size:14px'></td></tr>
 <tr><td style='background-color:rgb(255,255,255);font-size:10px'></td><td style='background-color:rgb(255,255,255);font-size:10px'></td></tr>
-<tr><td style='background-color:rgb(255,255,255);font-size:14px'>佐川（キャッチ）</td><td style='background-color:rgb(0,255,255);font-size:14px'>HIヒロセ飛田店　9時半スタート
-〒861-5514 熊本県熊本市北区飛田３丁目８−４５</td></tr>
+<tr><td style='background-color:rgb(255,255,255);font-size:14px'>佐川（キャッチ）</td><td style='background-color:rgb(0,255,255);font-size:14px'>HIヒロセ 別府店　9時スタート
+〒874-0924 大分県別府市餅ケ浜町６−２３</td></tr>
 <tr><td style='background-color:rgb(255,255,255);font-size:10px'></td><td style='background-color:rgb(255,255,255);font-size:10px'></td></tr>
-<tr><td style='background-color:rgb(255,255,255);font-size:14px'>今井（キャッチ）</td><td style='background-color:rgb(0,255,255);font-size:14px'>HIヒロセ飛田店　9時半スタート
-〒861-5514 熊本県熊本市北区飛田３丁目８−４５</td></tr>
+<tr><td style='background-color:rgb(255,255,255);font-size:14px'>今井（キャッチ）</td><td style='background-color:rgb(0,255,255);font-size:14px'>HIヒロセ 別府店　9時スタート
+〒874-0924 大分県別府市餅ケ浜町６−２３</td></tr>
 <tr><td style='background-color:rgb(255,255,255);font-size:10px'></td><td style='background-color:rgb(255,255,255);font-size:10px'></td></tr>
 <tr><td style='background-color:rgb(255,255,255);font-size:14px'>丸尾（キャッチ）</td><td style='background-color:rgb(255,255,255);font-size:14px'></td></tr>
 </table></div></body></html>
